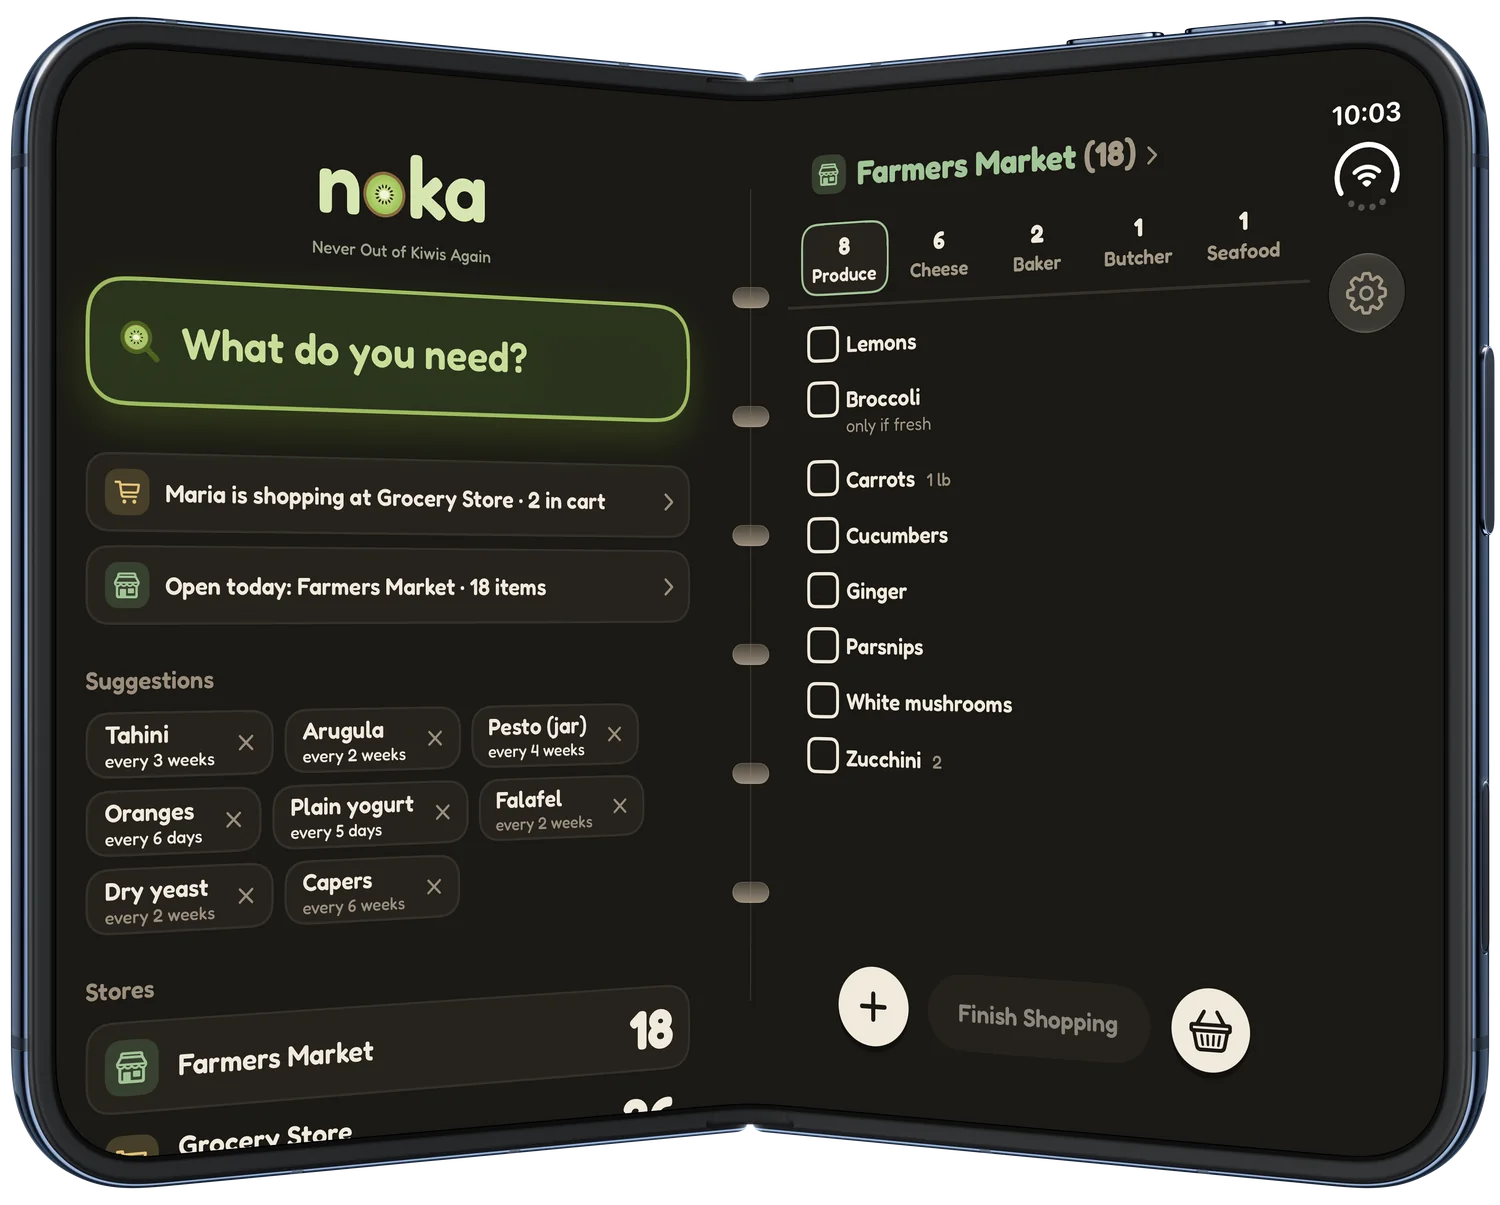
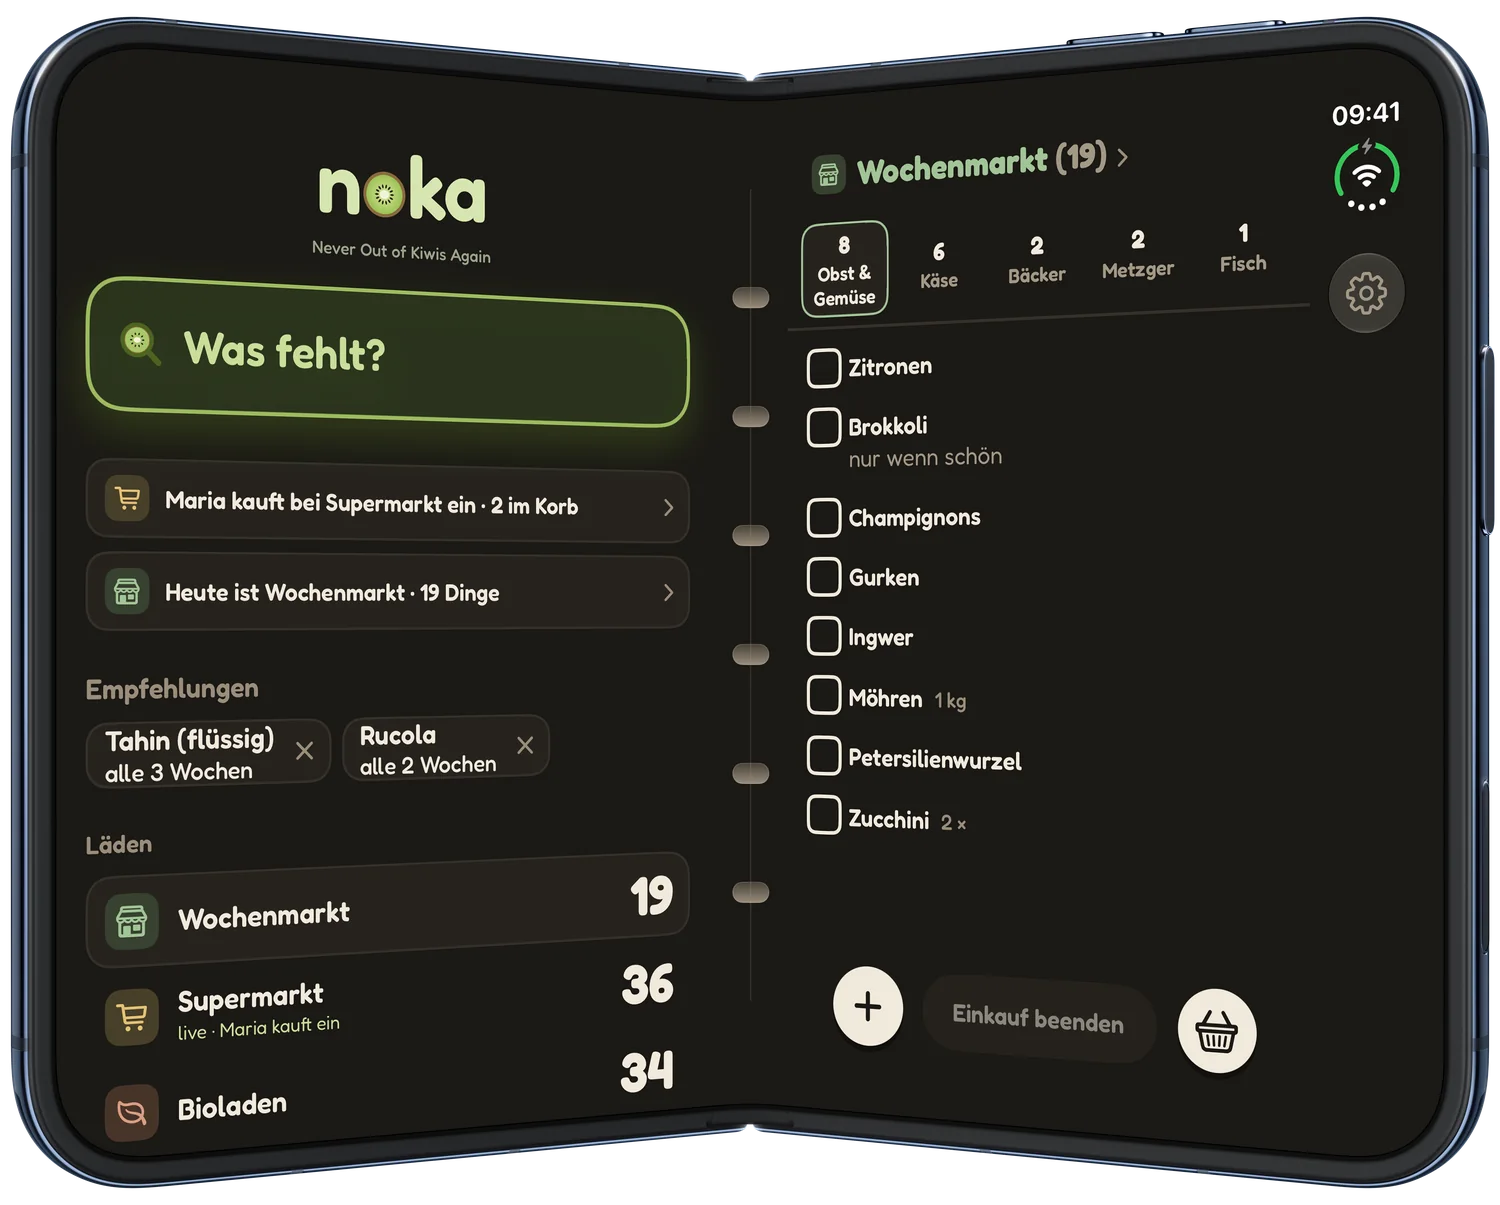
noka: Duo-Bilder (aufgeklappt, halb geöffnet) deutsch neu aufgenommen, Bildadressen mit Version

diff --git a/noka/index.html b/noka/index.html
@@ -98,8 +98,8 @@
 <h2>Aufgeklappt wird noka zum Ringbuch.</h2>
 <p class="lead">Links deine Läden, rechts die Liste. Halb geöffnet hältst du es wie ein Buch: links tippen, rechts abhaken.</p>
 <div class="duo-bilder">
-<div class="gross"><picture><source media="(prefers-color-scheme: dark)" srcset="img/ringbuch-de-dunkel.webp"><img src="img/ringbuch-de-hell.webp" width="1500" height="1090" loading="lazy" alt="noka auf einem aufgeklappten iPhone Duo quer: links die Läden, rechts die Liste, wie in einem Ringbuch."></picture></div>
-<div class="halb"><picture><source media="(prefers-color-scheme: dark)" srcset="img/halb-de-dunkel.webp"><img src="img/halb-de-hell.webp" width="1500" height="1205" loading="lazy" alt="noka auf einem halb geöffneten iPhone Duo, gehalten wie ein Buch: links Läden und Suche, rechts die Liste."></picture></div>
+<div class="gross"><picture><source media="(prefers-color-scheme: dark)" srcset="img/ringbuch-de-dunkel.webp?v=2"><img src="img/ringbuch-de-hell.webp?v=2" width="1500" height="1090" loading="lazy" alt="noka auf einem aufgeklappten iPhone Duo quer: links die Läden, rechts die Liste, wie in einem Ringbuch."></picture></div>
+<div class="halb"><picture><source media="(prefers-color-scheme: dark)" srcset="img/halb-de-dunkel.webp?v=2"><img src="img/halb-de-hell.webp?v=2" width="1500" height="1205" loading="lazy" alt="noka auf einem halb geöffneten iPhone Duo, gehalten wie ein Buch: links Läden und Suche, rechts die Liste."></picture></div>
 </div>
 </div></section>
 
